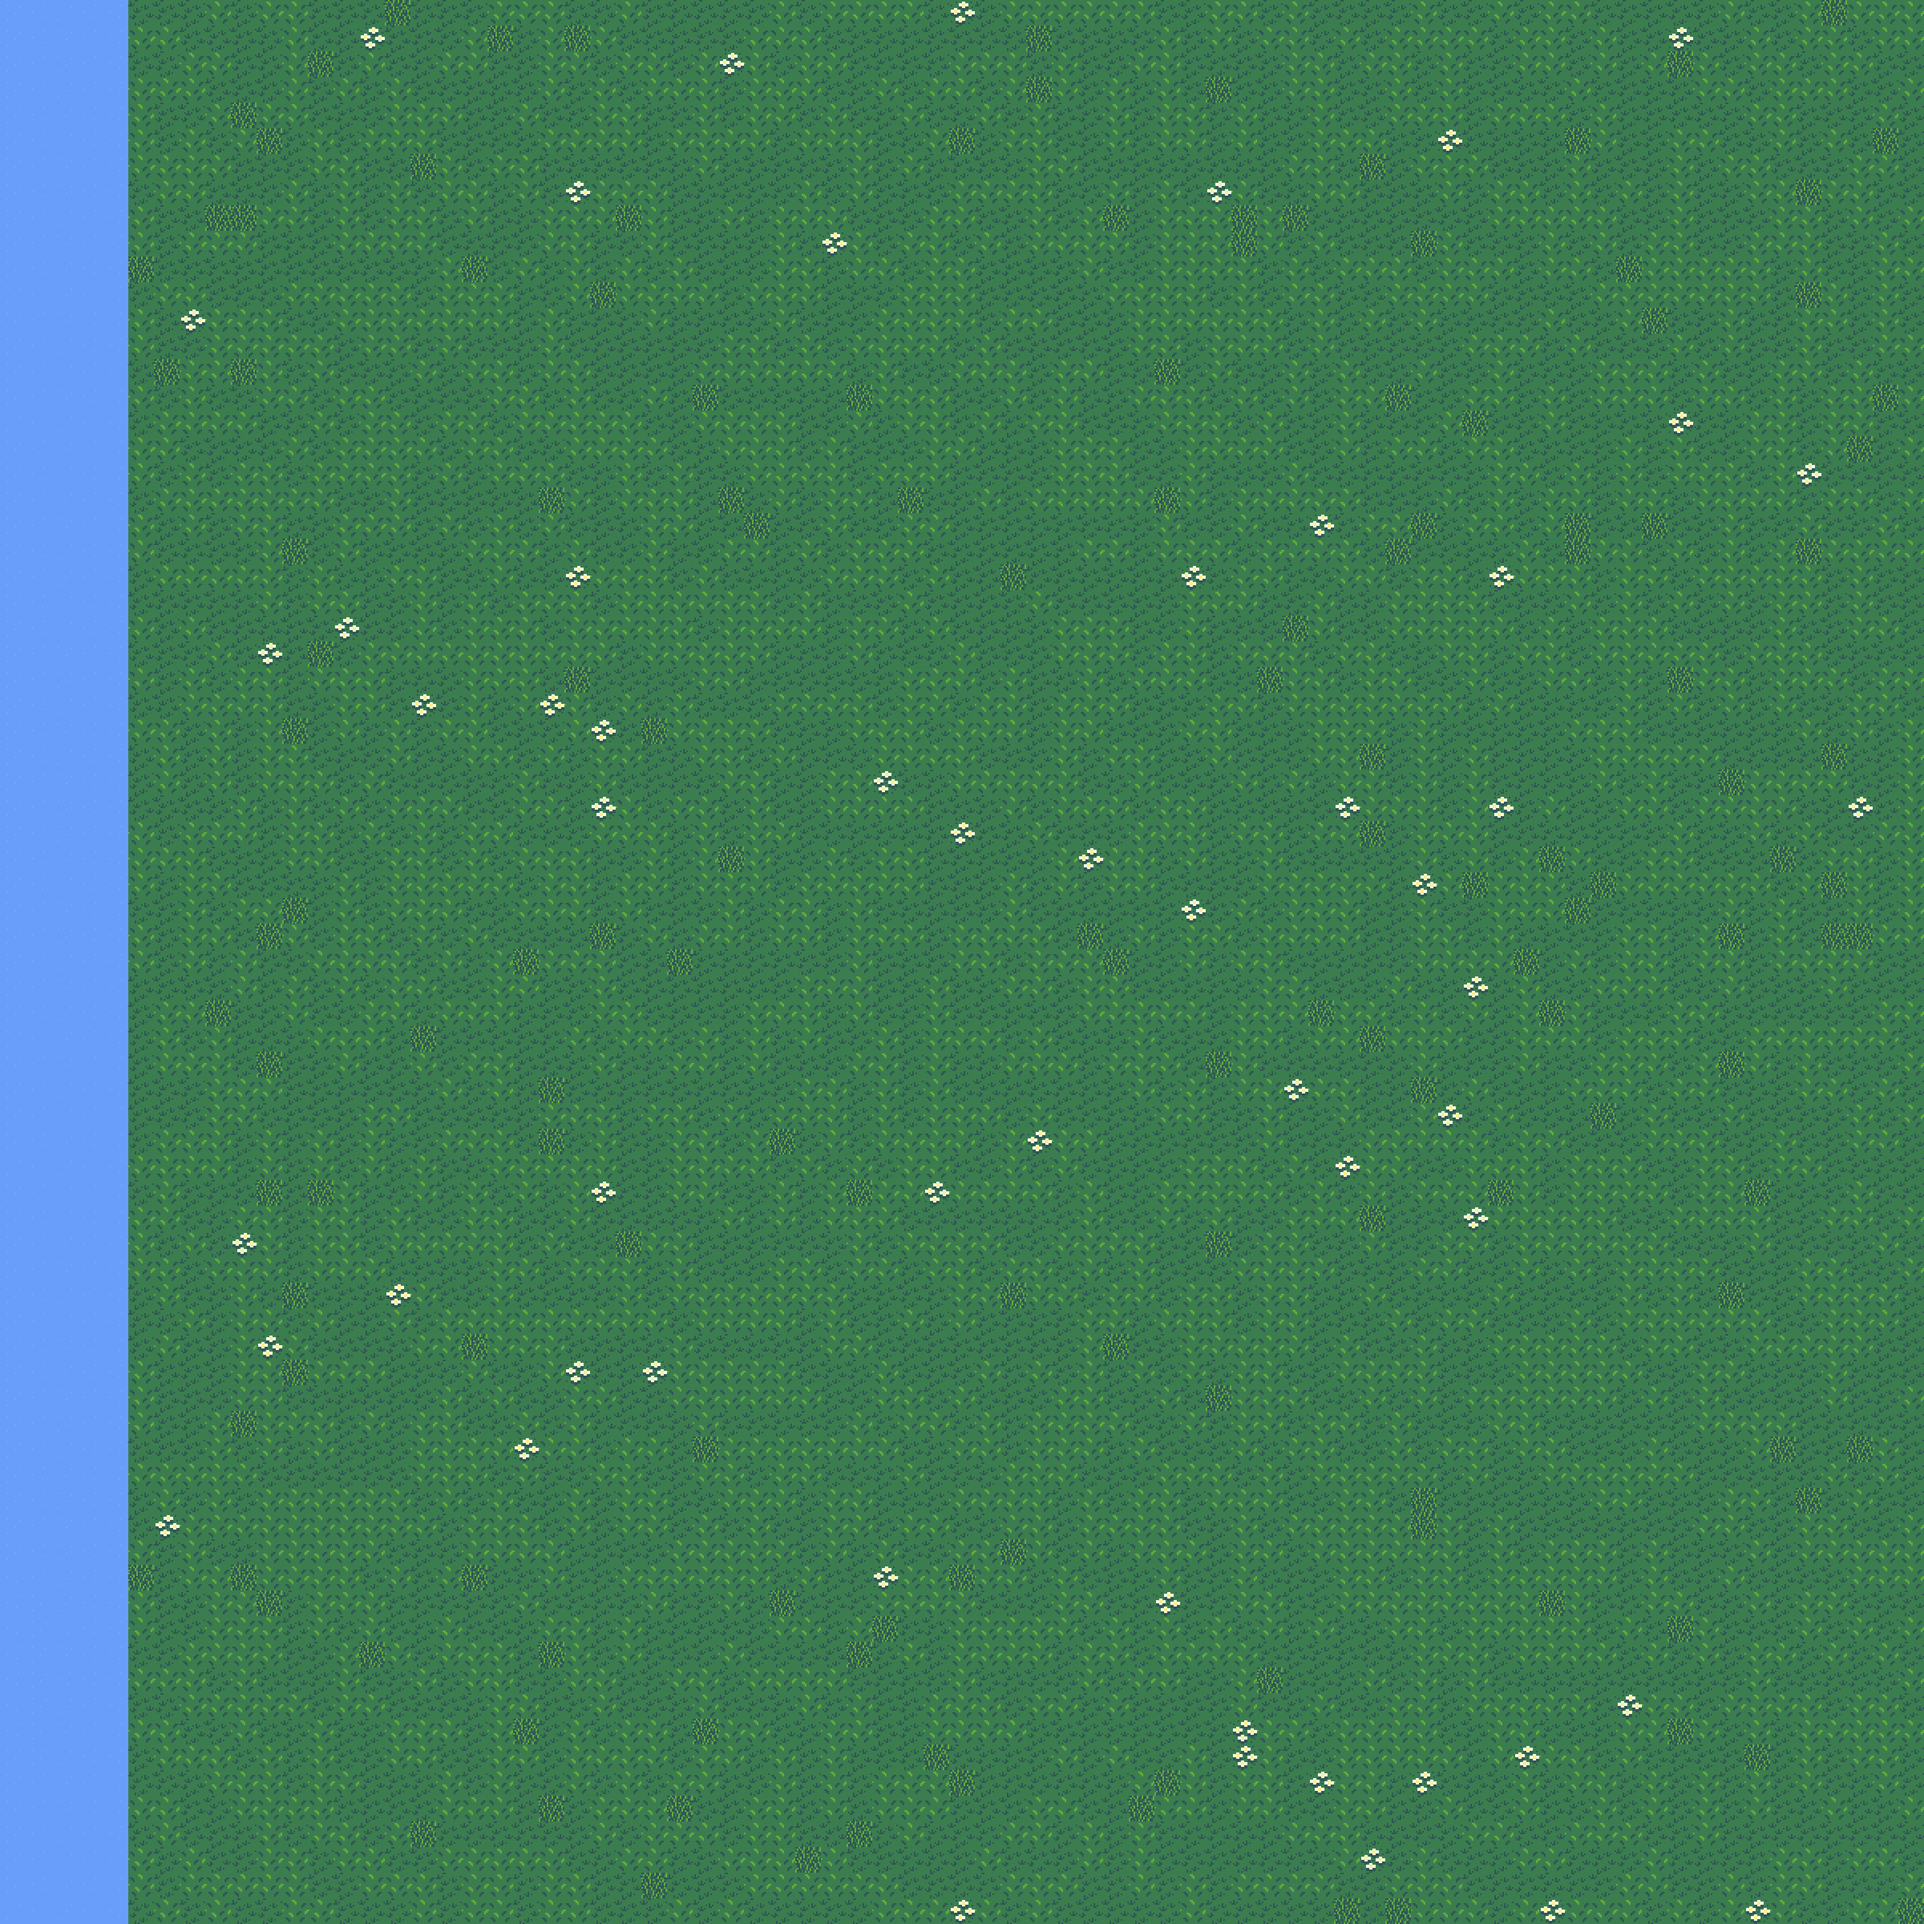
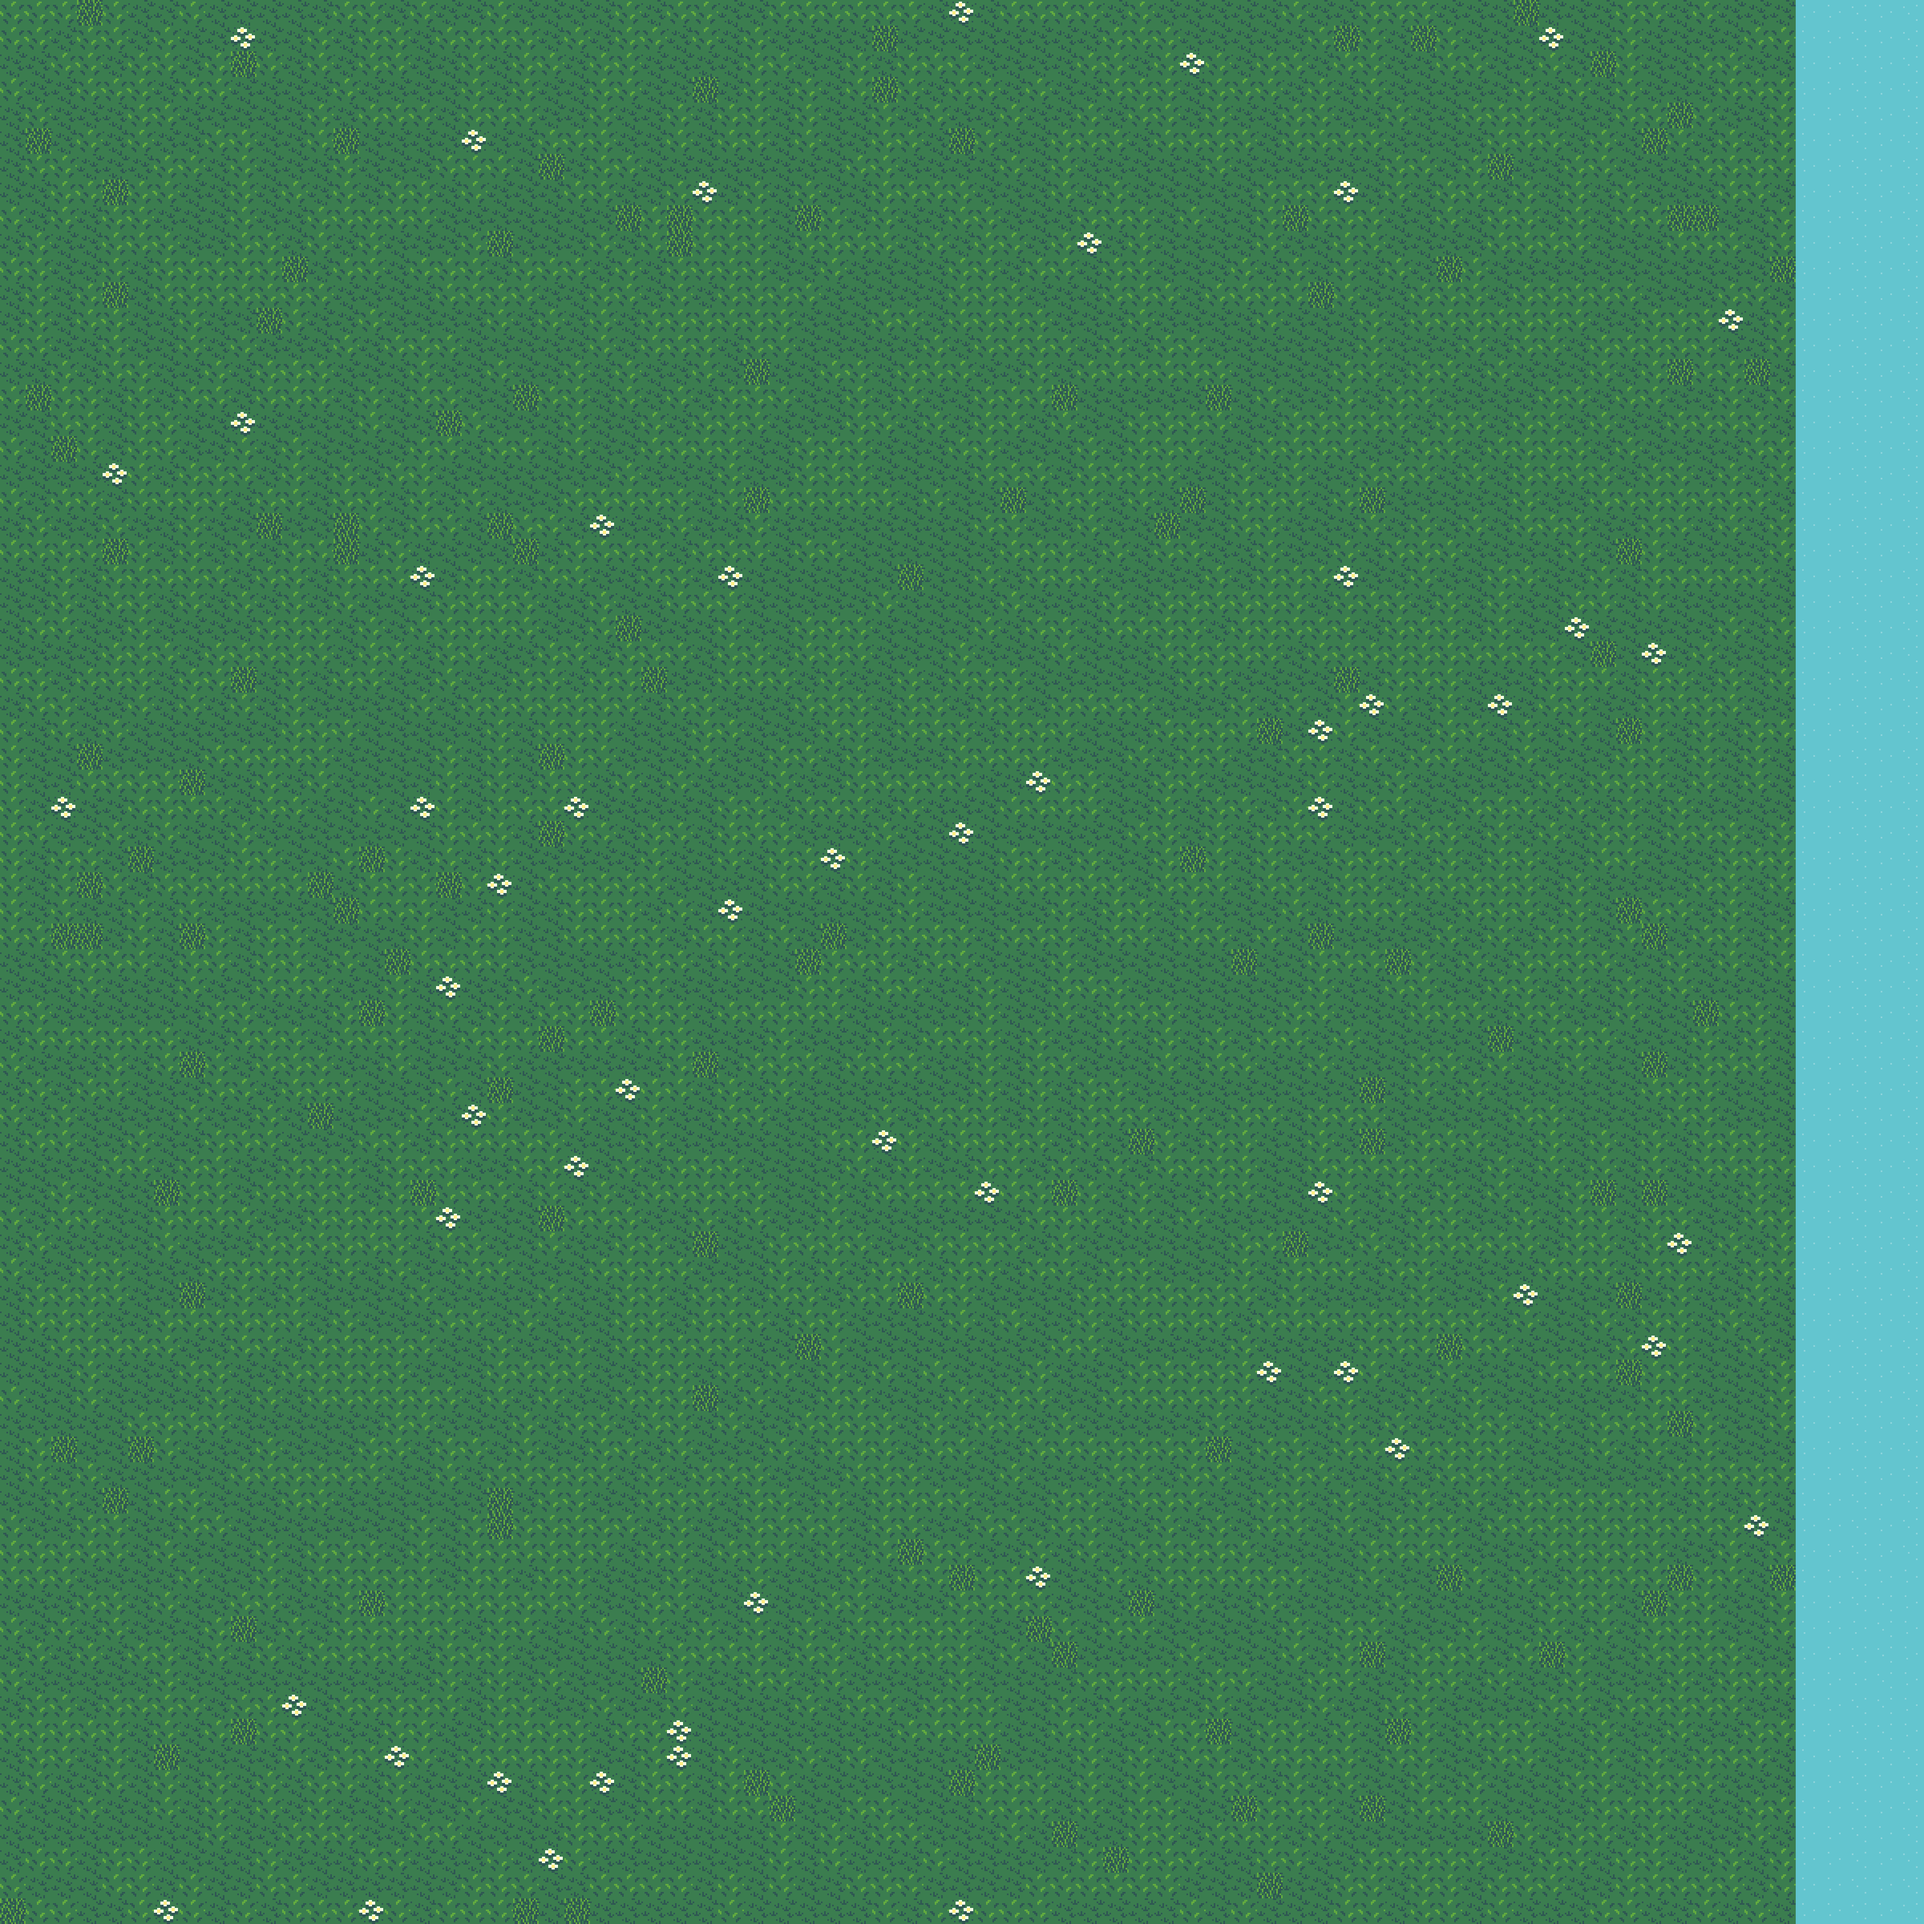
Map Borders Done

diff --git a/Map.js b/Map.js
@@ -3,8 +3,8 @@ class Map{
     constructor(game,x,y){
 		Object.assign(this, {game, x, y});
     
-    	this.width = 3600;
-        this.height = 3600;
+    	this.width = 6684;
+        this.height = 6360;
         this.mapState = 0
         
         this.states=[];
@@ -12,7 +12,7 @@ class Map{
 		this.positionx = this.x - this.game.camera.x;
         this.positiony = this.y - this.game.camera.y;
         
-		this.spritesheet = ASSET_MANAGER.getAsset("./Maps/CastToTheShadowsNewMap1.png");
+		this.spritesheet = ASSET_MANAGER.getAsset("./Maps/CastToTheShadowsMapBIG.png");
 
     	this.game.Map= this;
 

diff --git a/main.js b/main.js
@@ -1,7 +1,7 @@
 var gameEngine = new GameEngine();
 
 var ASSET_MANAGER = new AssetManager();
-ASSET_MANAGER.queueDownload("./Maps/CastToTheShadowsNewMap1.png");
+ASSET_MANAGER.queueDownload("./Maps/CastToTheShadowsMapBIG.png");
 ASSET_MANAGER.queueDownload("./Sprites/PlayerSheet.png");
 ASSET_MANAGER.queueDownload("./Sprites/Hand_Pistol2.png");
 ASSET_MANAGER.queueDownload("./Sprites/Machete.png");

diff --git a/sceneManager.js b/sceneManager.js
@@ -132,7 +132,7 @@ class SceneManager {
 			open[randomIndex].addTerrain(tree);
 		}
 
-		this.map = new Map(this.game, 0, 0);
+		this.map = new Map(this.game, -1350, -1645);
 
 		this.game.addEntity(this.map);
 		this.game.addEntity(rBoundary);
